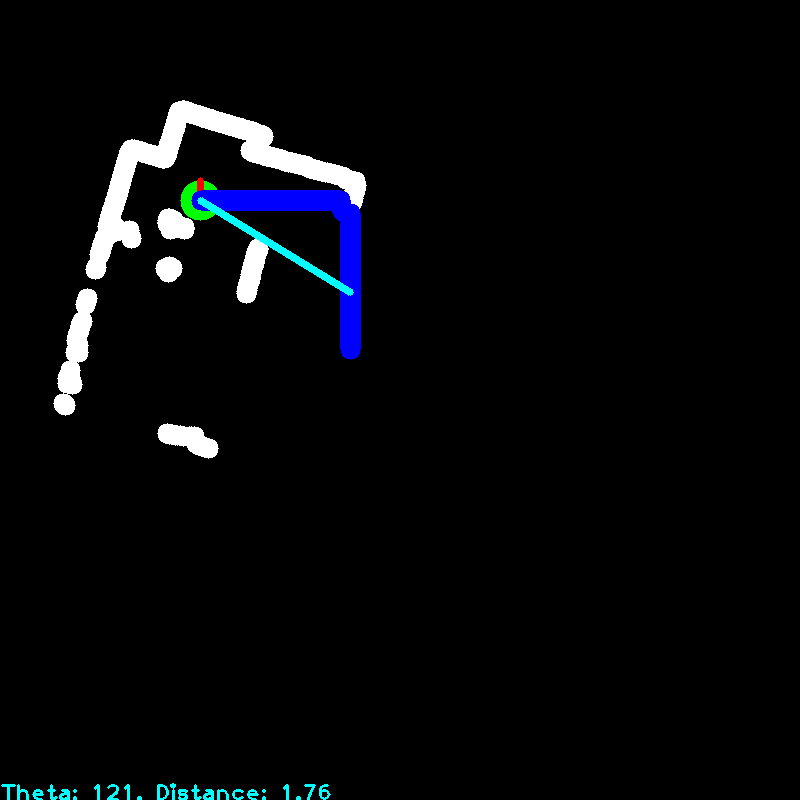
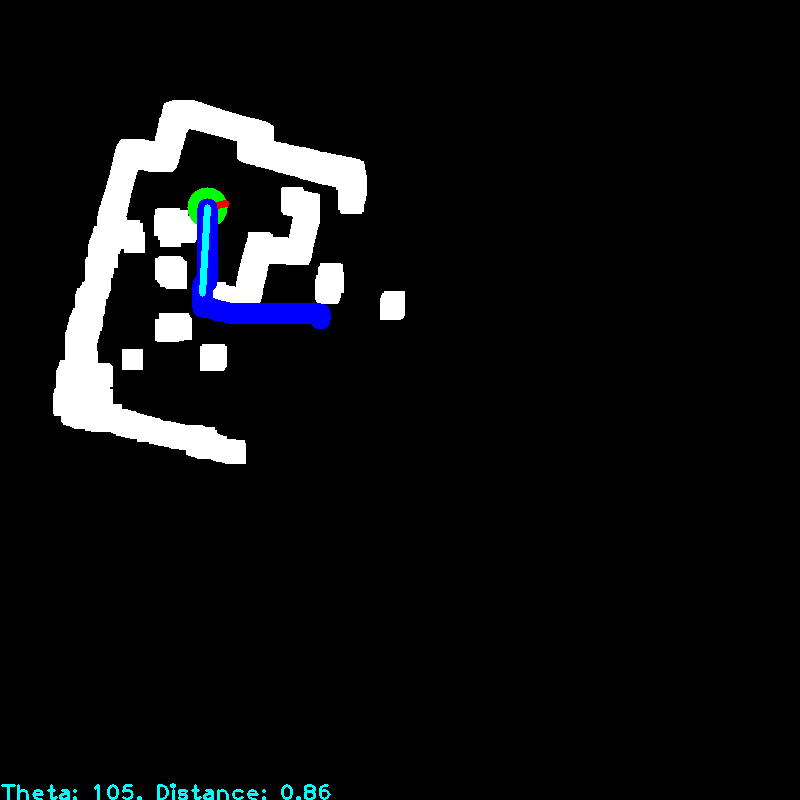
last modifies

Changed region(s): [[0.0625, 0.125, 0.5312, 0.5938], [0.3438, 0.9688, 0.4062, 1.0], [0.125, 0.9688, 0.1875, 1.0]]

diff --git a/lidar_main_work/slam_nav.py b/lidar_main_work/slam_nav.py
@@ -8,7 +8,8 @@ import math
 from opt import (read_txt, icp_2d, polar_to_cartesian_from_x,
                   filter_points_by_radius, get_affine_matrix, 
                  apply_transform, draw_points, affine_matrix_from_axes_and_offset,
-                   angle_from_xy1_point_to_xy0_direction, down_sample_point_cloud, angle_between_2d)
+                   angle_from_xy1_point_to_xy0_direction, down_sample_point_cloud,
+                     angle_between_2d, find_first_free_on_line_numpy, line_points)
 from path_find import find_path_to_nearest, find_farthest_point_on_path
 
 
@@ -40,6 +41,7 @@ class LidarToVideoSLAM:
         self.prev_point_cloud = None
         self.video_name = video_name
         self.goal = self.get_point_coord_on_map(np.array(goal))
+        self.global_goal = self.get_point_coord_on_map(np.array(goal))
         self.local_goal = self.get_point_coord_on_map(np.array(goal))
         R = np.array([[0, -1],
                     [1,  0]])
@@ -57,6 +59,8 @@ class LidarToVideoSLAM:
         self.path = []
         self.object_radius_for_drawing = 0.2
         self.orient_line_width_for_draing = 0.05
+        self.prev_data = np.array([])
+        self.first_scan_made = False
             
         if video_name is not None:
             self.save_to_video = True
@@ -99,8 +103,11 @@ class LidarToVideoSLAM:
         if self.start and len(data) < MIN_LIDAR_POINTS_FOR_INIT:
             print("Not enough lidar points for initiate. Waiting...")
             return
+        if self.prev_data.shape == data.shape and np.allclose(data, self.prev_data):
+            return
         self.start = False
         self._points_data_to_frame(data)
+        self.first_scan_made = True
 
     def write_video_frame(self):
         if self.save_to_video:
@@ -115,10 +122,21 @@ class LidarToVideoSLAM:
             self.out.write(im)
             
             
-    def add_point_cloud_to_map(self, point_cloud):
+    def add_point_cloud_to_map_circle(self, point_cloud):
         for point in point_cloud:
             x, y = self.get_point_coord_on_map(point)
             cv.circle(self.map, [int(x), int(y)], self.wall_radius, [255, 255, 255], -1)
+
+    def add_point_cloud_to_map_rect(self, point_cloud):
+        for point in point_cloud:
+            x, y = self.get_point_coord_on_map(point)
+            # Рассчитываем координаты углов квадрата
+            half_side = self.wall_radius  # так как сторона = 2 * wall_radius
+            x1 = int(x - half_side)
+            y1 = int(y - half_side)
+            x2 = int(x + half_side)
+            y2 = int(y + half_side)
+            cv.rectangle(self.map, (x1, y1), (x2, y2), (255, 255, 255), -1)            
     
     def remove_robot_from_point_cloud(self, point_cloud):
         return filter_points_by_radius(point_cloud, center=[0, 0], radius=0.3)
@@ -133,18 +151,38 @@ class LidarToVideoSLAM:
         cv.line(im, self.get_point_coord_on_map(self.object_center), 
                 self.get_point_coord_on_map(self.object_orient),
                   (0, 0, 255), math.ceil(self.orient_line_width_for_draing * self.scale))
-        return im
+        return im        
     
     def find_next_local_goal(self):
+        if not self.first_scan_made:
+            return False
         path = find_path_to_nearest(self.map, 
                                     self.get_point_coord_on_map(self.object_center), self.goal)
         if path is None or len(path) == 0:
             print('No path can be found')
+            print('Reset map')
+            self.start = True        
+            self.map = np.zeros((self.resolution, self.resolution, 3), np.uint8)
+            self.prev_point_cloud = None
+            self._points_data_to_frame(self.prev_data)
+            points_from_goal = line_points(self.global_goal, self.get_point_coord_on_map(self.object_center))
+            for point in points_from_goal:
+                path = find_path_to_nearest(self.map, 
+                                            self.get_point_coord_on_map(self.object_center), point)
+                if len(path) > 0:
+                    self.goal = point
+                    break
+            else:
+                print("NO WAY. STUCK.")
+            
+
         self.path = path
         local_goal = find_farthest_point_on_path(self.map, path, 
                                                       self.get_point_coord_on_map(self.object_center))
         if local_goal is not None:
             self.local_goal = local_goal
+
+        return True
     
     def get_local_goal(self):
         if self.local_goal is not None:
@@ -179,6 +217,7 @@ class LidarToVideoSLAM:
         :param data: Список точек в формате [(angle, distance, intensity), ...].
         :return: Изображение в формате BGR (numpy array).
         """
+        self.prev_data = data
         # Создаем черное изображение
         cart_points = polar_to_cartesian_from_x(data)
         cart_points = self.move_point_cloud_from_lidar_to_robot_center(cart_points)
@@ -192,6 +231,7 @@ class LidarToVideoSLAM:
                                    voxel_down_sample=None,
                                    remove_points_prev=None)            
             if abs(theta * 180 / np.pi) > 15:
+                print("Too much transform! Ignoring")
                 return            
             new_transform = get_affine_matrix(theta, tx, ty)
             cart_points = apply_transform(cart_points, new_transform)
@@ -200,7 +240,7 @@ class LidarToVideoSLAM:
             self.object_center = apply_transform([self.object_center], new_transform)[0]
             self.object_orient = apply_transform([self.object_orient], new_transform)[0]            
             
-        self.add_point_cloud_to_map(cart_points)
+        self.add_point_cloud_to_map_rect(cart_points)
         if len(self.prev_point_cloud) > 5000:
             self.prev_point_cloud = down_sample_point_cloud(self.prev_point_cloud.T, 0.01)
 
@@ -225,9 +265,9 @@ if __name__ == "__main__":
     lidar_to_video = LidarToVideoSLAM(out_folder="output_videos",
                                       scale=100,
                                       map_size_meters=8,
-                                      video_name="go_test_path3",
+                                      video_name="go_test_path4",
                                       wall_radius=0.1,
-                                      goal=[3.5, 3.5],
+                                      goal=[3.2, 3.2],
                                       start_position=[2, 2],
                                       orientation_x=[0, -1]
                                       )
@@ -242,11 +282,12 @@ if __name__ == "__main__":
         # if i % 50 == 0:
                  
         lidar_to_video.write_data(np.array(point_cloud['p']))
-        lidar_to_video.find_next_local_goal()
+        if i % 10 == 0:
+            lidar_to_video.find_next_local_goal()
         lidar_to_video.write_video_frame()
 
-        # if i >= 2:
-        #     break
+        if i >= 40:
+            break
     
     # Останавливаем запись
     lidar_to_video.stop()

diff --git a/lidar_main_work/opt.py b/lidar_main_work/opt.py
@@ -12,6 +12,85 @@ def read_txt(file):
                 data.append(json.loads(line))
     return data
 
+def line_points(p1, p2):
+    """
+    Возвращает список точек (x, y) в порядке от p1 к p2,
+    лежащих на прямой (растеризованной как пиксельная линия).
+
+    Параметры:
+        p1, p2 : tuple (x, y) — координаты точек (целые или вещественные).
+
+    Возвращает:
+        Список кортежей [(x0, y0), (x1, y1), ..., (xn, yn)]
+    """
+    x1, y1 = p1
+    x2, y2 = p2
+
+    dx = x2 - x1
+    dy = y2 - y1
+
+    # Количество шагов — чтобы не пропустить пиксели
+    steps = int(np.ceil(max(abs(dx), abs(dy))))
+    
+    if steps == 0:
+        return [(int(x1), int(y1))]
+
+    # Параметрическая интерполяция
+    t = np.linspace(0, 1, steps + 1)
+    xs = np.round(x1 + t * dx).astype(int)
+    ys = np.round(y1 + t * dy).astype(int)
+
+    # Преобразуем в список кортежей
+    return list(zip(xs, ys))
+
+def find_first_free_on_line_numpy(binary_map, p1, p2):
+    """
+    Находит первую (ближайшую к p1) точку на отрезке p1->p2,
+    которая не является препятствием (т.е. binary_map[y, x] != 255).
+
+    Параметры:
+        binary_map : np.ndarray, shape (H, W), dtype=uint8
+            Бинарная карта: 255 — препятствие, 0 (или другое) — свободно.
+        p1, p2 : tuple (x, y)
+            Начальная и конечная точки отрезка.
+
+    Возвращает:
+        (x, y) — координаты первой свободной точки, или None, если такой нет.
+    """
+    x1, y1 = p1
+    x2, y2 = p2
+
+    # Вектор от p1 к p2
+    dx = x2 - x1
+    dy = y2 - y1
+
+    # Количество шагов — максимум из абсолютных приращений (для покрытия всех пикселей)
+    steps = int(np.ceil(max(abs(dx), abs(dy))))
+    
+    if steps == 0:
+        # Точки совпадают
+        return p1 if binary_map[y1, x1] != 255 else None
+
+    # Параметрическая интерполяция: t от 0 до 1
+    t = np.linspace(0, 1, steps + 1)
+    xs = np.round(x1 + t * dx).astype(int)
+    ys = np.round(y1 + t * dy).astype(int)
+
+    # Ограничиваем координаты размерами карты (опционально, но безопасно)
+    H, W = binary_map.shape
+    xs = np.clip(xs, 0, W - 1)
+    ys = np.clip(ys, 0, H - 1)
+
+    # Ищем первую точку, не являющуюся препятствием
+    free_mask = binary_map[ys, xs] != 255
+    indices = np.where(free_mask)[0]
+    
+    if indices.size > 0:
+        i = indices[0]
+        return (int(xs[i]), int(ys[i]))
+    else:
+        return None
+
 def angle_between_2d(v1, v2, deg=True):
     """
     Возвращает ориентированный угол от v1 к v2 в диапазоне [-pi, pi] (или [-180, 180] градусов).
